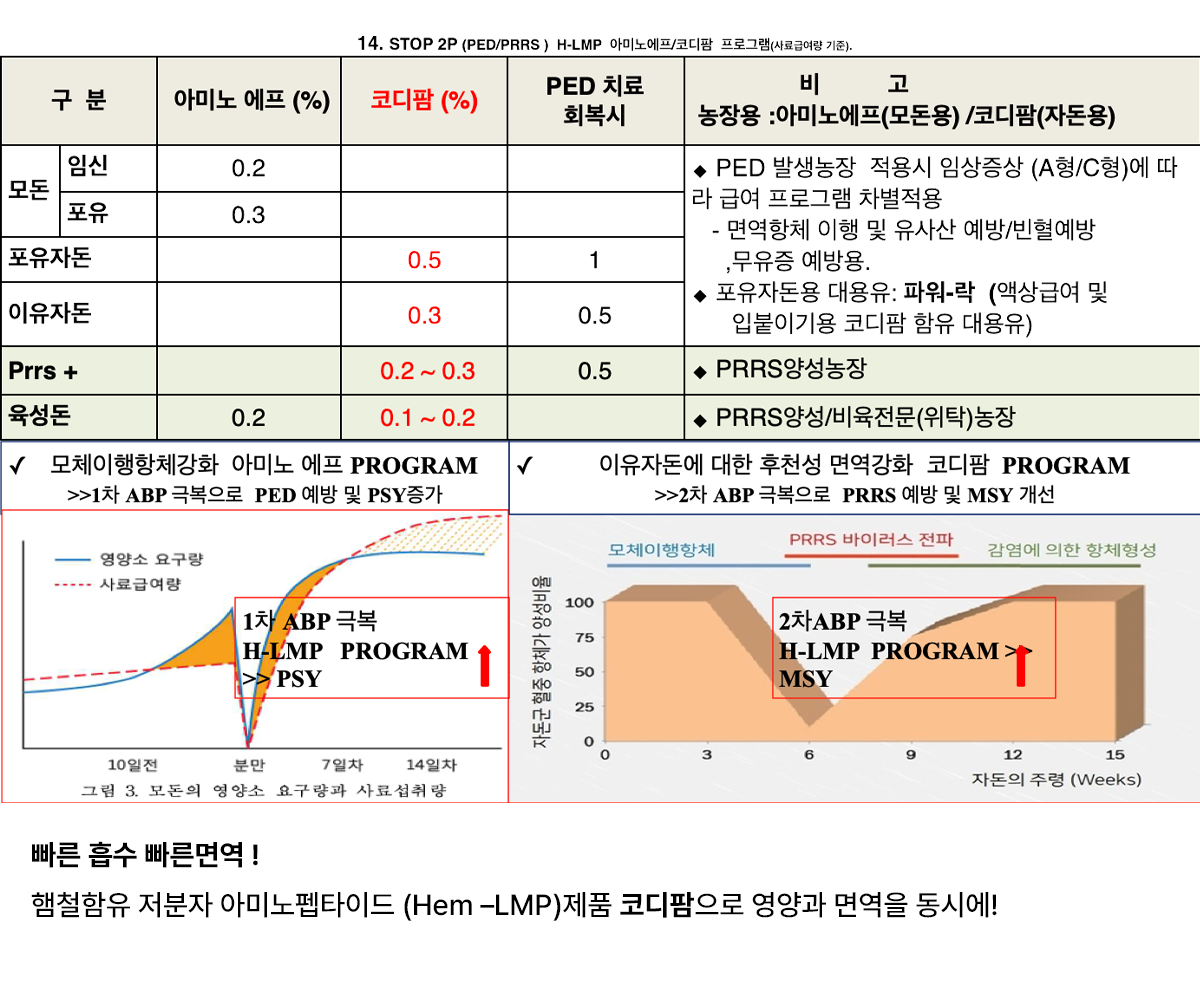
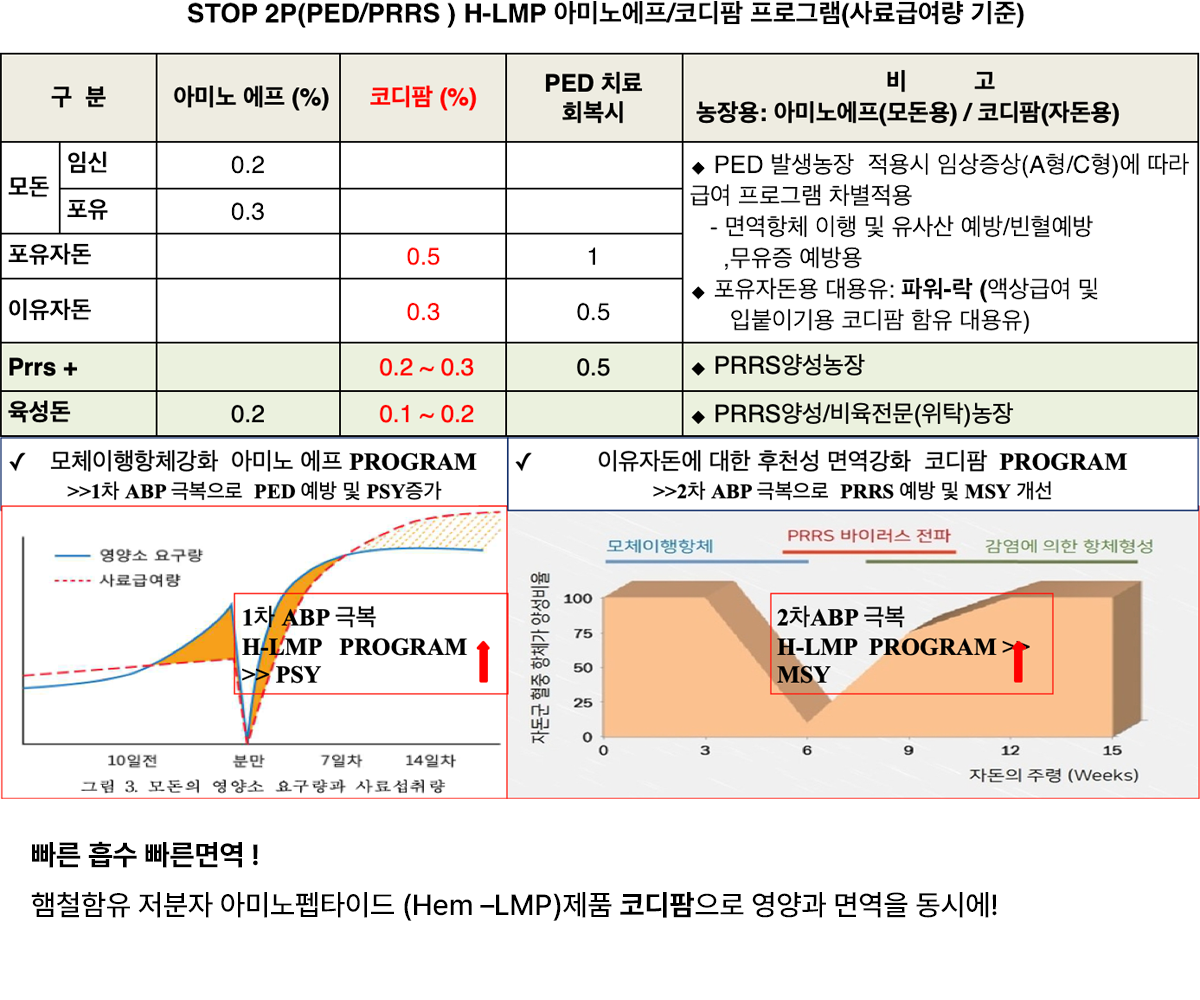
Move PD13 infographic below product application section

Changed region(s): [[0.0, 0.0, 1.0, 0.806]]

diff --git a/src/app/products/page.tsx b/src/app/products/page.tsx
@@ -143,7 +143,7 @@ export default function ProductsPage() {
 
         <section className="mb-32 rounded-3xl bg-[#f7faf7] p-10">
           <h2 className="text-3xl font-black text-[#0f3d2e]">
-            제품 및 프로그램 적용
+            사육단계별 권장 사용량 및 프로그램 
           </h2>
 
           <div className="mt-10 grid gap-8 md:grid-cols-3">
@@ -151,23 +151,24 @@ export default function ProductsPage() {
               <h3 className="text-xl font-bold">임신돈·모돈</h3>
               <p className="mt-4 leading-7 text-gray-600">
                 아미노에프를 사료 급여량으로 적용하여 모돈의 1차 ABP를 예방하고 
-                면역력이 확보된 초유 공급을 지원합니다.  
+                면역력이 확보된 풍부한 초유를 공급
               </p>
             </div>
 
             <div className="rounded-2xl bg-white p-8">
               <h3 className="text-xl font-bold">포유돈</h3>
               <p className="mt-4 leading-7 text-gray-600">
-                PED 및 PRRS 발생 시 아미노에프와 코디팜을 상황에 따라
-                적용합니다.
+                임신말 급격한 태아성장과 분만스트레스로 
+                사료섭취량 감소와 급격한 체력, 영양손실로 인한 1차 ABP예방(초유의 PED 중화항체 강화) 
               </p>
             </div>
 
             <div className="rounded-2xl bg-white p-8">
               <h3 className="text-xl font-bold">자돈</h3>
               <p className="mt-4 leading-7 text-gray-600">
-                포유기부터 55일령 전후까지 코디팜을 통해 초기 면역과 회복(빠른 중화 항체 형성)을
-                지원합니다.
+                포유기부터 55일령 전후까지 
+                코디팜을 통한 PRRS초기면역 강화 및 
+                조기회복(빠른 중화 항체 형성)을 지원합니다.
               </p>
             </div>
           </div>

diff --git a/src/app/about/page.tsx b/src/app/about/page.tsx
@@ -73,20 +73,21 @@ export default function AboutPage() {
               </p>
 
               <p>
-                엔팜은 20년 이상 축적된 기술력과 현장 경험을 바탕으로,
-                질병 예방의 핵심은 면역력 강화에 있다는 신념 아래
-                연구개발을 이어오고 있습니다.
+                엔팜은 20년 이상 축적된 기술력과 현장 경험을 바탕으로, 
+                질병 예방의 핵심은 면역력 강화라는 신념 아래 관련제품의 연구개발을 지속하고 있습니다.
               </p>
 
               <p>
-                특히 가축의 면역 형성, 회복 및 성장 단계에서 중요한 역할을 하는
-                저분자 단백질 원료 기반 솔루션을 공급하며,
+                특히 가축의 면역향체형성을 통한 질병예방과 
+                회복성장의 핵심역할을 하는 저분자 단백질 원료공급 솔루션으로 
                 건강한 축산 환경 조성과 생산성 향상에 기여하고 있습니다.
+               
               </p>
 
               <p>
-                엔팜은 앞으로도 가축의 면역 연구와 현장 중심의 기술 개발을 통해
-                질병을 극복하는 친환경 축산의 미래를 만들어 가겠습니다.
+                엔팜은 앞으로도 가축의 면역 연구와 
+                현장 중심의 기술 개발을 통해 질병을 극복하는 
+                면역강화 친환경 축산을 실천하겠습니다.
               </p>
             </div>
 
